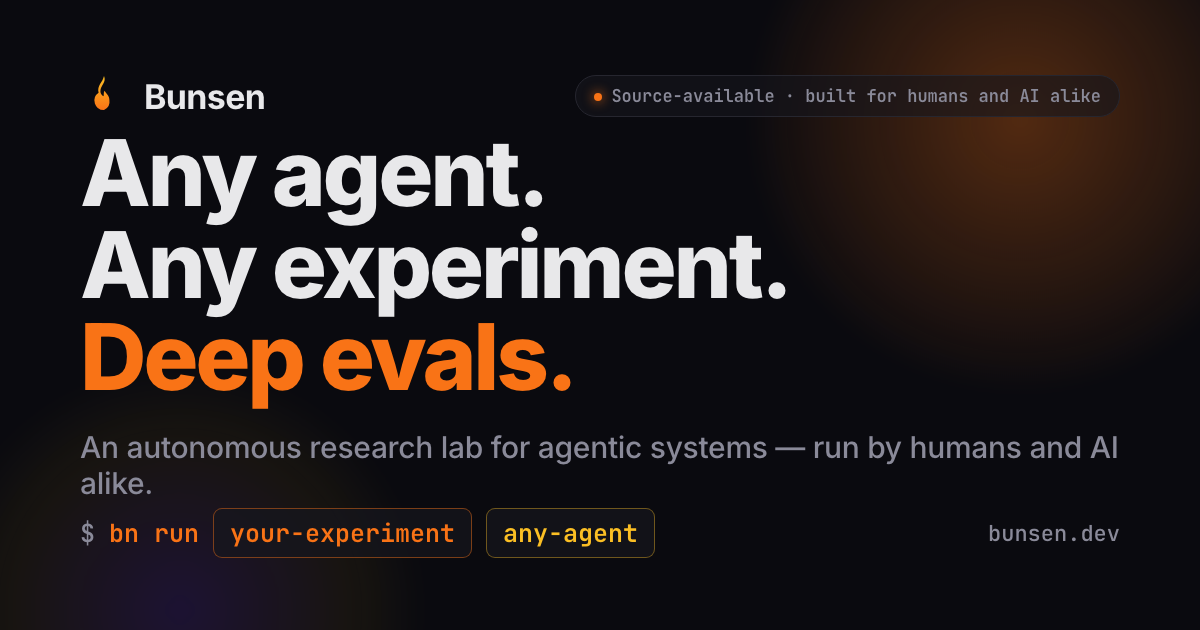
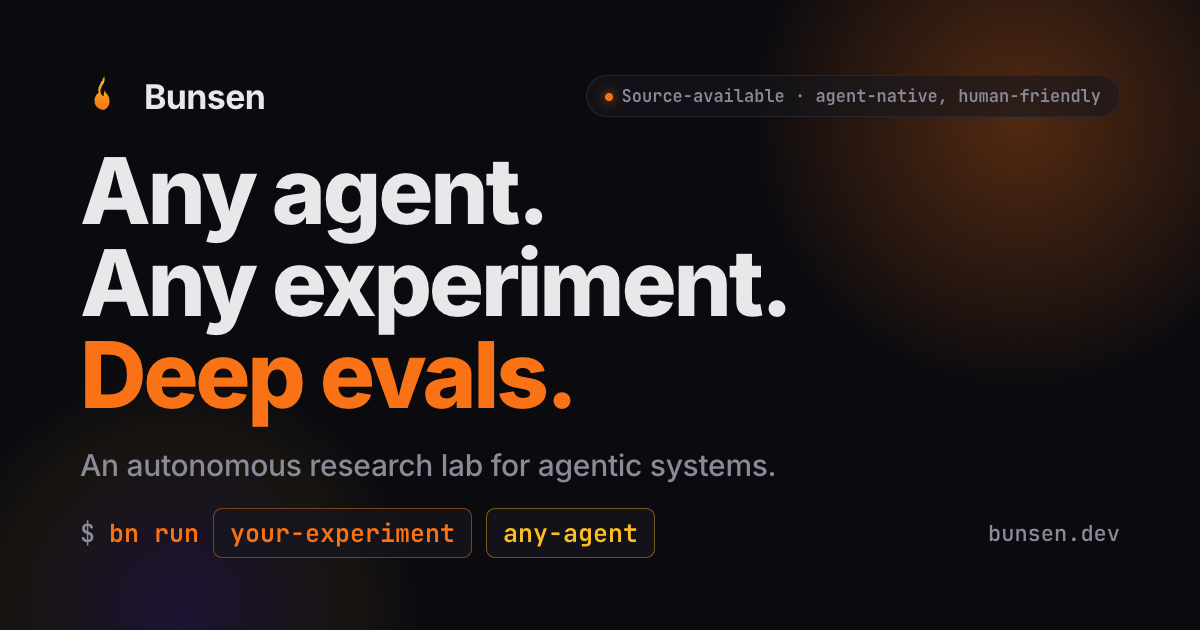
Update runbar examples (#15)
* Update runbar examples

* Regenerate og image: "driven by AI or humans"

Rewords the OG card's pill and subhead away from "humans and AI alike"
to "driven by AI or humans," matching the current landing copy.

* docs: refocus backwards-compat policy now that Bunsen is public

The "no external consumers yet, break anything freely" guidance is
stale post-release. Split the root rule into two: keep the anti-cruft
hygiene (no shims, Legacy aliases, dual-shape code), now justified by
pre-1.0 velocity rather than absent consumers; and add a light
public-surface rule — break cli/sdk/types and user-facing schemas
deliberately and in release notes, never silently.

Reframe the runtime/agents notes from "no external consumers yet" to
"internal package, no API-stability obligation," which is structurally
true regardless of the public release.

* Reword og image pill to "agent-native, human-friendly"

Replaces the awkward "driven by AI or humans" phrasing: the pill now
reads "Source-available · agent-native, human-friendly," and the
subhead drops its redundant trailing clause down to "An autonomous
research lab for agentic systems."

* docs(legal): add liability, cost-responsibility, and indemnity terms

Disclose and disclaim the residual-risk gaps in our liability posture so a
user can't credibly claim surprise, and give the maintainer an indemnity
backstop for third-party claims arising from a user's use.
[…]

Changed region(s): [[0.0617, 0.2111, 0.9558, 0.7841], [0.555, 0.1206, 0.925, 0.181], [0.4933, 0.1206, 0.5242, 0.181]]

diff --git a/apps/web/components/RunBar.tsx b/apps/web/components/RunBar.tsx
@@ -11,27 +11,26 @@
 //   - program-bench/sqlite is a real ProgramBench task (reconstruct SQLite from its
 //     binary; arXiv 2605.03546); mle-bench is a different domain (ML) and container-native.
 const experiments = [
-  "terminal-bench/build-linux-kernel",
-  "gcal-clone",
-  "program-bench/sqlite*",
-  "play-tetris",
-  "mle-bench/spaceship-titanic*",
-  "your-experiment",
-  "terminal-bench/build-linux-kernel",
+  'terminal-bench/build-linux-kernel',
+  'gcal-clone',
+  'program-bench/sqlite*',
+  'battlesnake',
+  'mle-bench/spaceship-titanic*',
+  'your-experiment',
 ];
 
 const agents = [
-  "claude-code",
-  "codex-cli",
-  "gemini-cli",
-  "opencode*",
-  "pi*",
-  "your-agent",
-  "claude-code",
+  'claude-code',
+  'codex-cli',
+  'gemini-cli',
+  'opencode*',
+  'pi*',
+  'your-agent',
+  'claude-code',
 ];
 
 function RotItem({ name }: { name: string }) {
-  if (name.endsWith("*")) {
+  if (name.endsWith('*')) {
     return (
       <li>
         {name.slice(0, -1)}
@@ -68,13 +67,12 @@ export function RunBar() {
         </span>
       </div>
       <div className="runcap">
-        <b>If you can run it, Bunsen can test it.</b> Swap one argument to compare
-        across models <em>and</em> harnesses.
+        <b>If you can run it, Bunsen can test it.</b> Swap one argument to compare across models{' '}
+        <em>and</em> harnesses.
       </div>
       <div className="runfoot">
-        <span className="star">*</span> Coming soon — add any benchmark via{" "}
-        <span className="mono">bn suites add</span>, or any agent in ~10 lines of
-        YAML.
+        <span className="star">*</span> Coming soon — add any benchmark via{' '}
+        <span className="mono">bn suites add</span>, or any agent in ~10 lines of YAML.
       </div>
     </div>
   );

diff --git a/docs/COST.md b/docs/COST.md
@@ -20,6 +20,23 @@ Cost is only as good as the traces it's computed from. If the proxy captured no
 traffic, there is nothing to price — see [Can you trust the
 numbers?](#can-you-trust-the-numbers).
 
+## Cost responsibility
+
+> **You are solely responsible for all charges you incur with model and tool
+> providers when you run Bunsen.** Bunsen does **not** enforce a spend cap or
+> budget: a run is bounded by wall-clock (`run.timeout`) and the agent's own
+> stopping behavior, **not** by a dollar or token limit, so a fast or looping
+> agent can run up a large provider bill inside that window. The figures in this
+> document are **observed-only, after-the-fact estimates** computed from captured
+> traces (see [Can you trust the numbers?](#can-you-trust-the-numbers)) — they are
+> not billing, not authoritative, and do not limit anything.
+>
+> To actually bound spend, use the controls that gate it: provider-side budgets
+> and rate limits, scoped and low-limit API keys, throwaway keys on a disposable
+> host (see the [Trust Model](./TRUST_MODEL.md)), and a conservative `run.timeout`.
+> Bunsen is `AS IS` software and disclaims liability for these charges — see "No
+> Liability" and the Additional Terms in [`LICENSE`](../LICENSE).
+
 ## How a call is priced
 
 ### The pricing snapshot

diff --git a/LICENSING.md b/LICENSING.md
@@ -26,6 +26,22 @@ All original code in this repository authored by the Licensor (Matthew Job Granm
 If you want to do something the Shield license doesn't permit (e.g., offer a competing or hosted commercial
 service built on Bunsen), a **commercial license is available** — contact the maintainer (see the README).
 
+### Your responsibilities
+
+Using Bunsen means running code — the experiment author's, the agent's, and whatever the agent generates at
+runtime — with open network access and your own provider keys. A few things follow from that, set out in the
+**Additional Terms from the Licensor** in [`LICENSE`](./LICENSE):
+
+- **You run it at your own risk.** The software is provided "as is," with no warranty, and the Licensor is
+  not liable for damages from its use — including data loss, system damage, or charges you incur. See the
+  [Trust Model](./docs/TRUST_MODEL.md).
+- **You pay for your own usage.** Bunsen does not cap spend; you are solely responsible for all charges you
+  incur with model and tool providers. See [Cost Accounting](./docs/COST.md).
+- **You comply with others' terms.** You are responsible for ensuring your use — and anything an agent does
+  over the network — follows applicable law and the terms of every third-party service it touches.
+- **You cover third-party claims from your use.** You indemnify the Licensor against third-party claims
+  arising from how you use the software.
+
 ### Can I use Bunsen at work?
 
 Yes. PolyForm Shield allows internal commercial use, including using Bunsen inside your company to run

diff --git a/CLA.md b/CLA.md
@@ -51,6 +51,15 @@ You acknowledge that the Maintainer may assign this agreement and the rights gra
 that succeeds to, owns, or operates Bunsen or the Maintainer's Bunsen-related business, including a company
 the Maintainer later forms. Any permitted assignee may exercise all rights granted here.
 
+## 7. Indemnification
+
+To the maximum extent permitted by applicable law, if you breach the representations in Section 4 (You have
+the right to contribute) — for example, by submitting a contribution you did not have the right to submit,
+or that infringes a third party's copyright, patent, trademark, trade secret, or other rights — you will
+indemnify and hold harmless the Maintainer from any third-party claim, loss, liability, or expense
+(including reasonable attorneys' fees) arising out of that breach. This Section 7 does not impose liability
+on you for a contribution to the extent it is your original creation and you had the right to submit it.
+
 ---
 
 **How to sign:** **[cla-assistant.io](https://cla-assistant.io)** will prompt first-time contributors once

diff --git a/README.md b/README.md
@@ -215,6 +215,13 @@ disposable host with throwaway, scoped API keys. See **[Trust Model](./docs/TRUS
 full trust model — where code executes (host vs container), the exact container posture, how to share runs
 safely, and the trace body-vs-headers nuance.
 
+**You are responsible for what your runs do and what they cost.** Bunsen does not cap spend — a run is
+bounded by `run.timeout`, not by a dollar or token budget, so a looping or fast agent can run up a large
+provider bill. You are solely responsible for all charges you incur with model and tool providers, and for
+ensuring your use — and anything an agent does over the open network — complies with those providers' terms
+and with applicable law. Use scoped, low-limit keys and provider-side budgets to bound spend. See
+[Cost Accounting](./docs/COST.md) and the Additional Terms in [`LICENSE`](./LICENSE).
+
 ## License
 
 Bunsen is **source-available** under the [PolyForm Shield License 1.0.0](./LICENSE) — it is **not** an OSI

diff --git a/CLAUDE.md b/CLAUDE.md
@@ -33,7 +33,8 @@ When in doubt, err toward creating a task — staying focused on the current obj
 
 - Please add tests as you work
 - Whenever you complete any work that adds or changes functionality, update README.md and any other relevant docs (see above)
-- **Never preserve backwards compatibility.** Bunsen has no external consumers yet, so every shape, name, and field in this repo is free to change. Do not keep old APIs "just in case," do not add compatibility shims, do not maintain adapters from an old shape to a new shape, do not re-export deleted names, do not leave `Legacy*` aliases around for callers to migrate at their leisure. When a surface changes, update every call site in the same commit and delete the old version. If a change is big, surface that to the user and let them decide — do not hide it behind an adapter. Dual-shape / dual-path code is the specific failure mode to avoid.
+- **Don't accumulate compatibility cruft.** Bunsen is pre-1.0 and still moves fast. Inside the repo, do not keep old APIs "just in case," do not add compatibility shims, do not maintain adapters from an old shape to a new shape, do not re-export deleted names, do not leave `Legacy*` aliases around for callers to migrate at their leisure. When a surface changes, update every call site in the same commit and delete the old version. Dual-shape / dual-path code is the specific failure mode to avoid.
+- **Break the public surface deliberately, not silently.** The source is public now. The public packages are `@bunsen-dev/cli`, `@bunsen-dev/sdk`, and `@bunsen-dev/types`, plus the user-facing schemas (`bunsen.config.yaml`, `experiment.yaml`, suite and `SKILL.md` formats) and the artifact/trace formats people parse. Breaking changes there are still fine — we're pre-1.0 — but they must be **deliberate, called out in release notes, and flagged to me first**, never silent or accidental. Internal packages (`@bunsen-dev/runtime`, `@bunsen-dev/agents`, anything marked `private: true`) carry no API-stability obligation and stay free to change.
 - Anytime you need to add a library or new piece of architecture or make a major decision on anything, please think through options, offer your guidance and recommendations, and then ask me what I'd like to do
 
 ## Running `bn` Locally

diff --git a/packages/agents/CLAUDE.md b/packages/agents/CLAUDE.md
@@ -62,7 +62,7 @@ Instead, when scorer/orchestrator code needs a small pure utility:
   ```
 - The standalone files already inline several utilities (see `loadDiff()`, `loadLogs()`, etc. in `src/scorer/standalone.ts`) for this reason.
 - Only import from `@bunsen-dev/types` or similarly small dependency-free shared packages. Do not import `@bunsen-dev/runtime` or cross-package source files into bundle entrypoints.
-- When a type from `@bunsen-dev/types` is the right shape, import it — do **not** duplicate the runtime's adapter/transform inline just to keep the bundle self-contained. This repo has no backwards-compat requirements (see the root [`CLAUDE.md`](../../CLAUDE.md)); the solution to a shape change is to update the bundle's reader, not to maintain a parallel legacy shape inside the bundle.
+- When a type from `@bunsen-dev/types` is the right shape, import it — do **not** duplicate the runtime's adapter/transform inline just to keep the bundle self-contained. This is internal bundle code with no API-stability obligation (see the root [`CLAUDE.md`](../../CLAUDE.md)); the solution to a shape change is to update the bundle's reader, not to maintain a parallel legacy shape inside the bundle.
 
 ### External packages
 

diff --git a/packages/runtime/CLAUDE.md b/packages/runtime/CLAUDE.md
@@ -4,7 +4,7 @@ Internal execution engine for Bunsen. Handles configuration loading, Docker cont
 
 **Not public API.** This package is marked `private: true`. The public surface is `@bunsen-dev/sdk`, `@bunsen-dev/types`, and `@bunsen-dev/cli`. See `docs/PACKAGES.md` for the boundary.
 
-**No backwards compatibility.** See the root [`CLAUDE.md`](../../CLAUDE.md) — Bunsen has no external consumers yet, so every shape in this package is free to change. Do not keep legacy fields around, do not add adapters from an old shape to a new one, do not maintain dual-shape code paths. When a type, field, or function changes, update every call site in the same commit and delete the old version.
+**No backwards compatibility.** This is an internal package (`private: true`, see above) with no API-stability obligation — every shape here is free to change. Per the root [`CLAUDE.md`](../../CLAUDE.md): do not keep legacy fields around, do not add adapters from an old shape to a new one, do not maintain dual-shape code paths. When a type, field, or function changes, update every call site in the same commit and delete the old version.
 
 ## Module Overview
 